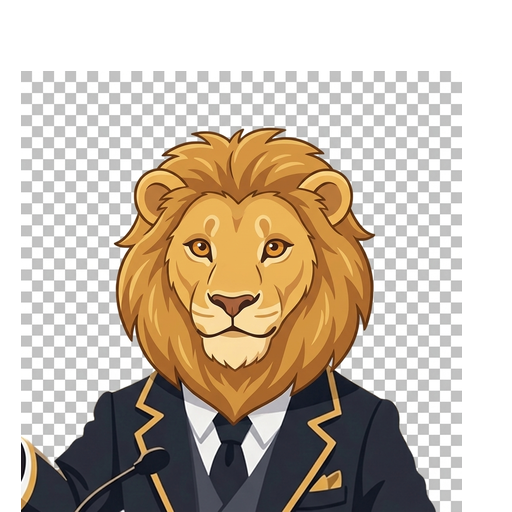
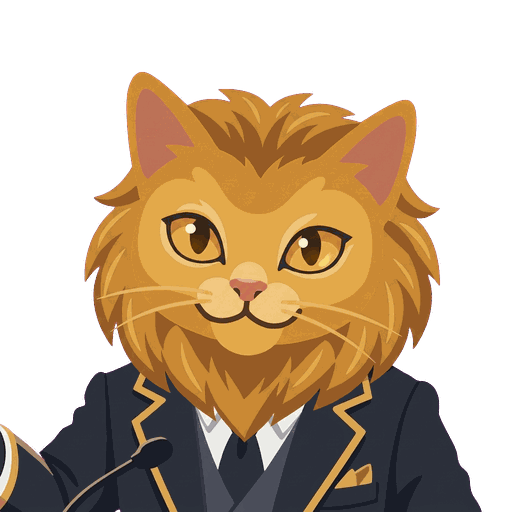
Vesper: leon y dragon rehechos, accesorios horneados en el modelo y vida propia
El leon y el dragon habian dejado de ser Vesper: el leon era otro animal con
otra geometria y el dragon un reptil verde sin nada de gato. Se rehacen como
PELAJE sobre la anatomia del gato (misma cabeza, orejas, hocico, bigotes y
ojos, mismo traje): melena que enmarca la cara felina, y escamas con dos
cuernos pequenos. Verificado por medicion: los 6 pelajes comparten ahora la
linea de cuello (neck_f 0.617).

De paso, un fallo que estaba EN PRODUCCION: calico.png no tenia fondo
transparente sino un rectangulo opaco gris horneado, asi que sobre la noche
del mapa se veia como una caja gris con el gato dentro. Regenerado.

Accesorios INTEGRADOS en el modelo (42 imagenes = 6 pelajes x 7 accesorios)
en vez de superponer el SVG encima. Ahora la corona se hunde en la melena del
leon, el birrete esquiva los cuernos del dragon y la patilla de las gafas pasa
por detras de la oreja. El SVG de ACCESSORIES queda como icono y respaldo.
Nuevo VESPER_THEME.look(pelaje, accesorio) como unica fuente de la verdad;
leccion.html y configuracion.html lo consumen y respetan los bloqueos.

Vida propia del avatar, en CSS puro (0 creditos, 0 KB, 0 peticiones): respira
desde las patas y cada pelaje tiene su detalle — destello junto a la oreja en
el gato/gris/multicolor, melena que late en oro, estrellas que titilan en el
cosmico y volutas de humo que suben del hocico en el dragon. Todo se apaga con
prefers-reduced-motion y con .vesper-reduce-motion.
[…]

diff --git a/leccion.html b/leccion.html
@@ -518,6 +518,48 @@
   .wavatar .wacc svg{width:100%;height:100%;display:block;overflow:visible;
     filter:drop-shadow(0 1px 1px rgba(20,18,42,.45))}
   @keyframes wbob{0%,100%{transform:translateY(0)}50%{transform:translateY(-3px)}}
+  /* ---- vida propia del avatar ---------------------------------------
+     El pelaje es un PNG plano, así que lo único animable es la capa que lo
+     envuelve: .wcat respira (escala mínima con el origen en las patas, para
+     que suba el pecho y no flote entero) y .wfx añade el detalle propio de
+     cada pelaje. Cero bytes y cero peticiones: no hay fotogramas ni vídeo.
+     Coordenadas medidas sobre la caja de 50px del avatar (orejas y≈7-10,
+     coronilla y≈13,5, ojos y≈24, hocico y≈28, cuello y≈31). */
+  .wavatar .wcat{transform-origin:50% 94%;animation:wbreathe 3.6s ease-in-out infinite}
+  @keyframes wbreathe{0%,100%{transform:scale(1,1)}50%{transform:scale(.987,1.015)}}
+  .wavatar .wfx{position:absolute;inset:0;pointer-events:none}
+  .wavatar .wfx::before,.wavatar .wfx::after{content:"";position:absolute;opacity:0}
+  /* gato original / gris / multicolor: un destello breve junto a la oreja */
+  .wavatar[data-pelaje="classic"] .wfx::before,
+  .wavatar[data-pelaje="gray"] .wfx::before,
+  .wavatar[data-pelaje="calico"] .wfx::before{left:33px;top:8px;width:6px;height:6px;
+    background:radial-gradient(circle,rgba(255,255,255,.95) 0 18%,rgba(201,168,76,.85) 30%,transparent 70%);
+    animation:wsparkle 5.2s ease-in-out infinite}
+  .wavatar[data-pelaje="gray"] .wfx::before{left:12px;
+    background:radial-gradient(circle,rgba(255,255,255,.95) 0 18%,rgba(198,205,214,.9) 30%,transparent 70%)}
+  @keyframes wsparkle{0%,72%,100%{opacity:0;transform:scale(.4) rotate(0deg)}
+    82%{opacity:1;transform:scale(1) rotate(45deg)}92%{opacity:0;transform:scale(.5) rotate(90deg)}}
+  /* león: la melena late en oro */
+  .wavatar[data-pelaje="lion"] .wfx::before{left:6px;top:4px;width:38px;height:34px;border-radius:50%;
+    background:radial-gradient(closest-side,rgba(232,183,74,.42),transparent 72%);
+    animation:wglow 3.9s ease-in-out infinite}
+  @keyframes wglow{0%,100%{opacity:.18;transform:scale(.94)}50%{opacity:.62;transform:scale(1.06)}}
+  /* cósmico: dos estrellas que titilan sobre la cabeza */
+  .wavatar[data-pelaje="cosmic"] .wfx::before,
+  .wavatar[data-pelaje="cosmic"] .wfx::after{width:5px;height:5px;
+    background:radial-gradient(circle,#fff 0 20%,rgba(126,232,240,.9) 34%,transparent 72%);
+    animation:wtwinkle 2.9s ease-in-out infinite}
+  .wavatar[data-pelaje="cosmic"] .wfx::before{left:12px;top:11px}
+  .wavatar[data-pelaje="cosmic"] .wfx::after{left:35px;top:7px;animation-delay:1.35s}
+  @keyframes wtwinkle{0%,100%{opacity:.15;transform:scale(.6)}50%{opacity:1;transform:scale(1.2)}}
+  /* dragón: dos volutas de humo que suben del hocico */
+  .wavatar[data-pelaje="dragon"] .wfx::before,
+  .wavatar[data-pelaje="dragon"] .wfx::after{left:20px;top:27px;width:5px;height:5px;border-radius:50%;
+    background:radial-gradient(circle,rgba(222,245,232,.9),rgba(150,205,180,0) 72%);
+    animation:wsmoke 3.4s ease-out infinite}
+  .wavatar[data-pelaje="dragon"] .wfx::after{left:27px;animation-delay:1.7s}
+  @keyframes wsmoke{0%{opacity:0;transform:translate(0,0) scale(.45)}
+    18%{opacity:.8}100%{opacity:0;transform:translate(-5px,-17px) scale(2)}}
   /* títulos/etiquetas legibles sobre la isla oscura */
   .wisland .wtitle{color:var(--cream,#f5f2eb)}
   .wisland .wnode.locked .wtitle{color:rgba(245,242,235,.55)}
@@ -553,9 +595,14 @@
   /* reduce-motion: sin caminar del avatar, sin haz del faro, sin titileo del cielo */
   @media(prefers-reduced-motion:reduce){
     .wavatar{animation:none}
+    .wavatar .wcat{animation:none}
+    .wavatar .wfx::before,.wavatar .wfx::after{animation:none;opacity:0}
     .wbtn.boss.ready .beam,.wbtn.boss.conquered .beam{animation:none;opacity:1}
   }
   .vesper-reduce-motion .wavatar{animation:none}
+  .vesper-reduce-motion .wavatar .wcat{animation:none}
+  .vesper-reduce-motion .wavatar .wfx::before,
+  .vesper-reduce-motion .wavatar .wfx::after{animation:none;opacity:0}
   .vesper-reduce-motion .wbtn.boss .beam{animation:none;opacity:1}
   .vesper-reduce-motion .wamb i,.vesper-reduce-motion .wisland::before,.vesper-reduce-motion .wisland::after{animation:none}
   /* ===== Pantallas del Guardián (portada / medidor / resultado) ===== */
@@ -2465,33 +2512,31 @@ body.has-chat-nudge .wrap{padding-bottom:96px}
   }
   var WORLD_UMBRAL = { A1: "Umbral del Hogar", A2: "Mojón del Sendero", B1: "Arco del Horizonte", B2: "Pórtico de la Torre", C1: "Portal del Firmamento", C2: "Sello del Castillo" };
   var BOSS_AVATAR = "assets/images/mascot/vesper_cat.png";
-  /* SVG del accesorio de Vesper elegido (vacío = ninguno). De vesper_theme.js. */
-  function currentAccessorySvg() {
+  /* ¿está desbloqueado este cosmético? (fail-open si no hay VESPER_COSMETICS) */
+  function unlockedCos(kind, id) {
     try {
-      if (window.VESPER_THEME && VESPER_THEME.get) {
-        var id = VESPER_THEME.get().accessory;
-        if (id && id !== "none" && window.VESPER_COSMETICS && VESPER_COSMETICS.isUnlocked
-            && !VESPER_COSMETICS.isUnlocked("acc", id)) return "";   // no mostrar accesorios bloqueados
-        var acc = VESPER_THEME.accessories && VESPER_THEME.accessories[id];
-        return (acc && acc.svg) || "";
-      }
+      if (window.VESPER_COSMETICS && VESPER_COSMETICS.isUnlocked) return !!VESPER_COSMETICS.isUnlocked(kind, id);
     } catch (e) {}
-    return "";
+    return true;
   }
-  /* Pelaje (apariencia completa) activo del gato del mapa, con guard de desbloqueo.
-     Devuelve {src, animal}: animal=true cuando NO es el Vesper clásico. */
-  function currentPelaje() {
+  /* Aspecto del gato del mapa: pelaje + accesorio en UNA sola imagen ya
+     horneada (VESPER_THEME.look). Antes se superponía el SVG del accesorio
+     sobre el PNG y, por bien calibrado que estuviera, se leía pegado encima:
+     el sombrero flotaba sobre la melena del león en vez de hundirse en ella.
+     Devuelve {src, svg, animal, pelaje}: animal=true cuando NO es el Vesper
+     clásico, que es lo que decide si recibe el tinte de color (--vc-filter).
+     Respeta los bloqueos: lo no desbloqueado no se pinta. */
+  function currentLook() {
     try {
-      if (window.VESPER_THEME && VESPER_THEME.get) {
-        var id = VESPER_THEME.get().pelaje;
-        if (id && id !== "classic") {
-          var locked = window.VESPER_COSMETICS && VESPER_COSMETICS.isUnlocked && !VESPER_COSMETICS.isUnlocked("pelaje", id);
-          var p = VESPER_THEME.pelajes && VESPER_THEME.pelajes[id];
-          if (!locked && p && p.img) return { src: p.img, animal: true };
-        }
+      if (window.VESPER_THEME && VESPER_THEME.get && VESPER_THEME.look) {
+        var st = VESPER_THEME.get();
+        var pel = (st.pelaje && st.pelaje !== "classic" && unlockedCos("pelaje", st.pelaje)) ? st.pelaje : "classic";
+        var acc = (st.accessory && st.accessory !== "none" && unlockedCos("acc", st.accessory)) ? st.accessory : "none";
+        var lk = VESPER_THEME.look(pel, acc);
+        return { src: lk.img, svg: lk.svg, animal: pel !== "classic", pelaje: pel };
       }
     } catch (e) {}
-    return { src: BOSS_AVATAR, animal: false };
+    return { src: BOSS_AVATAR, svg: "", animal: false, pelaje: "classic" };
   }
   /* etiqueta visual para un cosmético recién desbloqueado {kind:"skin"|"acc"|"pelaje",id} */
   function cosmeticLabel(c) {
@@ -3161,7 +3206,7 @@ body.has-chat-nudge .wrap{padding-bottom:96px}
     var t = WORLD_THEME[selLevel] || {};
     var terrain = t.file ? (";--w-terrain:url(" + t.file + ")") : "";
     var startPennant = '<div class="wstart" aria-hidden="true"><span>' + (WORLD_UMBRAL[selLevel] || ('Mundo ' + worldNo)) + '</span></div>';
-    var pj = currentPelaje();
+    var pj = currentLook();
     /* worldVars también en .wsky: el resplandor del horizonte y el color de
        la noche viven ahí, y .wsky es PADRE de .wisland, así que no heredaba
        el acento del mundo (se quedaba en el oro por defecto en los 6). */
@@ -3171,8 +3216,9 @@ body.has-chat-nudge .wrap{padding-bottom:96px}
       + '<div class="wmap" id="wmap" data-world="' + selLevel + '" data-cur="' + curStop + '" style="' + worldVars(t) + '">'
       + '<svg class="wterrain terr" aria-hidden="true" focusable="false" preserveAspectRatio="none"></svg>'
       + '<svg class="wtrail" aria-hidden="true" focusable="false" preserveAspectRatio="none"><path class="wtrail-base"/><path class="wtrail-road"/><path class="wtrail-tex"/><path class="wtrail-glow"/><path class="wtrail-done"/><path class="wtrail-line"/><path class="wtrail-comet"/></svg>'
-      + '<div class="wavatar' + (pj.animal ? ' has-pelaje' : '') + '" aria-hidden="true"><img class="wcat" src="' + pj.src + '" alt="" decoding="async">'
-      + '<span class="wacc">' + currentAccessorySvg() + '</span></div>'
+      + '<div class="wavatar' + (pj.animal ? ' has-pelaje' : '') + '" data-pelaje="' + pj.pelaje + '" aria-hidden="true">'
+      + '<img class="wcat" src="' + pj.src + '" alt="" decoding="async">'
+      + '<span class="wacc">' + pj.svg + '</span><span class="wfx" aria-hidden="true"></span></div>'
       + ambLayer(t.mapN || 3, true) + startPennant + parts
       + '</div></div></div>';
     /* el botón vive FUERA de .wmap: no lleva data-stop y no entra en la medición */

diff --git a/vesper_theme.js b/vesper_theme.js
@@ -237,6 +237,43 @@ window.VESPER_THEME = (function () {
   };
   var PELAJE_ORDER = ["classic", "gray", "calico", "lion", "cosmic", "dragon"];
 
+  /* ---- Accesorios HORNEADOS en el modelo ----------------------------------
+     Cada combinación pelaje + accesorio tiene su PROPIA imagen, con el
+     accesorio dibujado sobre ese pelaje concreto: la corona se apoya dentro
+     de la melena del león, el birrete esquiva los cuernos del dragón y la
+     patilla de las gafas pasa por detrás de la oreja. Antes se superponía el
+     SVG sobre el PNG del gato y, hiciera lo que hiciera con las coordenadas,
+     siempre se leía como una calcomanía encima: el sombrero flotaba sobre la
+     melena en vez de hundirse en ella.
+
+     Existen los 42 archivos (6 pelajes x 7 accesorios) en
+     assets/images/mascot/skins/<pelaje>_<accesorio>.png. El SVG de
+     ACCESSORIES queda como ICONO y como respaldo si algún día falta uno. */
+  function bakedSrc(pelaje, acc) {
+    if (!acc || acc === "none") return null;
+    if (!PELAJES[pelaje] || !ACCESSORIES[acc]) return null;
+    return MASCOT_DIR + "skins/" + pelaje + "_" + acc + ".png";
+  }
+
+  /* Qué hay que pintar para una combinación. Devuelve una sola imagen cuando
+     está horneada; si no, la del pelaje y el SVG para superponer.
+     `tint`: sólo el gato original recibe el tinte de color (--vc-filter);
+     los pelajes de animal traen sus propios colores. */
+  function look(pelaje, acc) {
+    pelaje = PELAJES[pelaje] ? pelaje : "classic";
+    acc = ACCESSORIES[acc] ? acc : "none";
+    var baked = bakedSrc(pelaje, acc);
+    return {
+      img: baked || PELAJES[pelaje].img,
+      fallback: PELAJES[pelaje].img,
+      svg: baked ? "" : ((ACCESSORIES[acc] && ACCESSORIES[acc].svg) || ""),
+      baked: !!baked,
+      pelaje: pelaje,
+      accessory: acc,
+      tint: pelaje === "classic"
+    };
+  }
+
   /* ---- helpers de color ---- */
   function clampHex(h) { return /^#([0-9a-f]{6})$/i.test(h) ? h : "#000000"; }
   function rgba(hex, a) {
@@ -391,15 +428,10 @@ window.VESPER_THEME = (function () {
      retrato debajo se ve exactamente lo que te vas a poner. Usa el pelaje
      activo para que la prueba sea la de tu gato. */
   function accessoryPreview(id) {
-    var a = ACCESSORIES[id] || {};
     var st = read();
-    var pel = PELAJES[st.pelaje] || PELAJES.classic;
-    if (id === "none") {
-      return '<span class="vt-accfig"><img src="' + pel.img + '" alt="" loading="lazy"'
-        + (st.pelaje === "classic" ? ' class="vt-tint"' : "") + '></span>';
-    }
-    return '<span class="vt-accfig"><img src="' + pel.img + '" alt="" loading="lazy"'
-      + (st.pelaje === "classic" ? ' class="vt-tint"' : "") + '>' + (a.svg || "") + '</span>';
+    var lk = look(st.pelaje, id);
+    return '<span class="vt-accfig"><img src="' + lk.img + '" alt="" loading="lazy"'
+      + (lk.tint ? ' class="vt-tint"' : "") + '>' + lk.svg + '</span>';
   }
 
   /* ---------- UI: panel de eleccion ---------- */
@@ -600,6 +632,7 @@ window.VESPER_THEME = (function () {
     setPelaje: function (id) { if (!PELAJES[id]) return; var s = read(); s.pelaje = id; write(s); apply(s); },
     set: function (theme, skin) { var s = read(); s.theme = theme; s.skin = skin; write(s); apply(s); },
     accessoryPreview: accessoryPreview,
+    look: look, bakedSrc: bakedSrc,
     renderPicker: renderPicker, wirePicker: wirePicker, mountFloat: mountFloat
   };
 

diff --git a/configuracion.html b/configuracion.html
@@ -55,6 +55,9 @@
   .pv-acc{position:absolute;left:0;top:0;width:96px;height:96px;pointer-events:none}
   .pv-acc svg{width:100%;height:100%;display:block;overflow:visible;filter:drop-shadow(0 1px 1px rgba(20,18,42,.4))}
   .pv-pel{width:96px;height:96px;object-fit:contain;display:block}
+  /* el tinte de color sólo lo lleva el gato original; los pelajes de animal
+     traen sus propios colores y el accesorio va horneado en la misma imagen */
+  .pv-pel.pv-tint{filter:var(--vc-filter,none)}
   .pv-text{min-width:0;flex:1}
   .pv-meta{display:flex;flex-wrap:wrap;gap:6px;align-items:center;margin-bottom:6px}
   .pill{background:var(--ink);color:var(--cream);font-weight:600;font-size:.72rem;padding:3px 10px;border-radius:999px}
@@ -590,24 +593,27 @@
     if (window.VESPER_MASCOT) {
       var state = TONE_STATE[cur.tone] || "welcome";
       var appr = (window.VESPER_THEME && VESPER_THEME.get) ? VESPER_THEME.get() : null;
-      /* aspecto (pelaje) completo: muestra la imagen del animal si está desbloqueado */
+      /* Aspecto = pelaje + accesorio ya HORNEADOS en una sola imagen
+         (VESPER_THEME.look): el accesorio va dibujado sobre ese pelaje, no
+         superpuesto. Sólo se cae a la mascota de expresiones cuando lleva el
+         gato original SIN accesorio, que es cuando el gesto aporta algo. */
+      var unlockedCos = function (kind, id) {
+        try {
+          if (window.VESPER_COSMETICS && VESPER_COSMETICS.isUnlocked) return !!VESPER_COSMETICS.isUnlocked(kind, id);
+        } catch (e) {}
+        return true;
+      };
       var pelId = appr ? appr.pelaje : "classic";
-      var pelLocked = pelId && pelId !== "classic" && window.VESPER_COSMETICS && VESPER_COSMETICS.isUnlocked && !VESPER_COSMETICS.isUnlocked("pelaje", pelId);
-      var pel = appr && VESPER_THEME.pelajes && VESPER_THEME.pelajes[pelId];
-      if (pelId !== "classic" && !pelLocked && pel && pel.img) {
-        $("pv-mascot").innerHTML = '<img class="pv-pel" src="' + pel.img + '" alt="Vesper">';
+      var accId = appr ? appr.accessory : "none";
+      if (pelId !== "classic" && !unlockedCos("pelaje", pelId)) pelId = "classic";
+      if (accId !== "none" && !unlockedCos("acc", accId)) accId = "none";
+      var lk = (appr && VESPER_THEME.look) ? VESPER_THEME.look(pelId, accId) : null;
+      if (lk && (pelId !== "classic" || accId !== "none")) {
+        $("pv-mascot").innerHTML = '<img class="pv-pel' + (lk.tint ? " pv-tint" : "") + '" src="' + lk.img + '" alt="Vesper">'
+          + (lk.svg ? '<span class="pv-acc" aria-hidden="true">' + lk.svg + '</span>' : "");
       } else {
         $("pv-mascot").innerHTML = VESPER_MASCOT.render(state, { size: "lg" });
       }
-      /* superpone el accesorio elegido sobre la mascota de la vista previa */
-      try {
-        if (appr) {
-          var accId = appr.accessory;
-          var accOk = !(accId && accId !== "none" && window.VESPER_COSMETICS && VESPER_COSMETICS.isUnlocked && !VESPER_COSMETICS.isUnlocked("acc", accId));
-          var acc = VESPER_THEME.accessories && VESPER_THEME.accessories[accId];
-          if (accOk && acc && acc.svg) $("pv-mascot").insertAdjacentHTML("beforeend", '<span class="pv-acc" aria-hidden="true">' + acc.svg + '</span>');
-        }
-      } catch (e) {}
     }
   }
   paint();

diff --git a/sw.js b/sw.js
@@ -9,7 +9,7 @@
    ============================================================ */
 "use strict";
 
-var CACHE_VERSION = "vesper-v92";
+var CACHE_VERSION = "vesper-v93";
 var CORE = [
   /* Vesper Engine shell */
   "vesper_engine.html",
